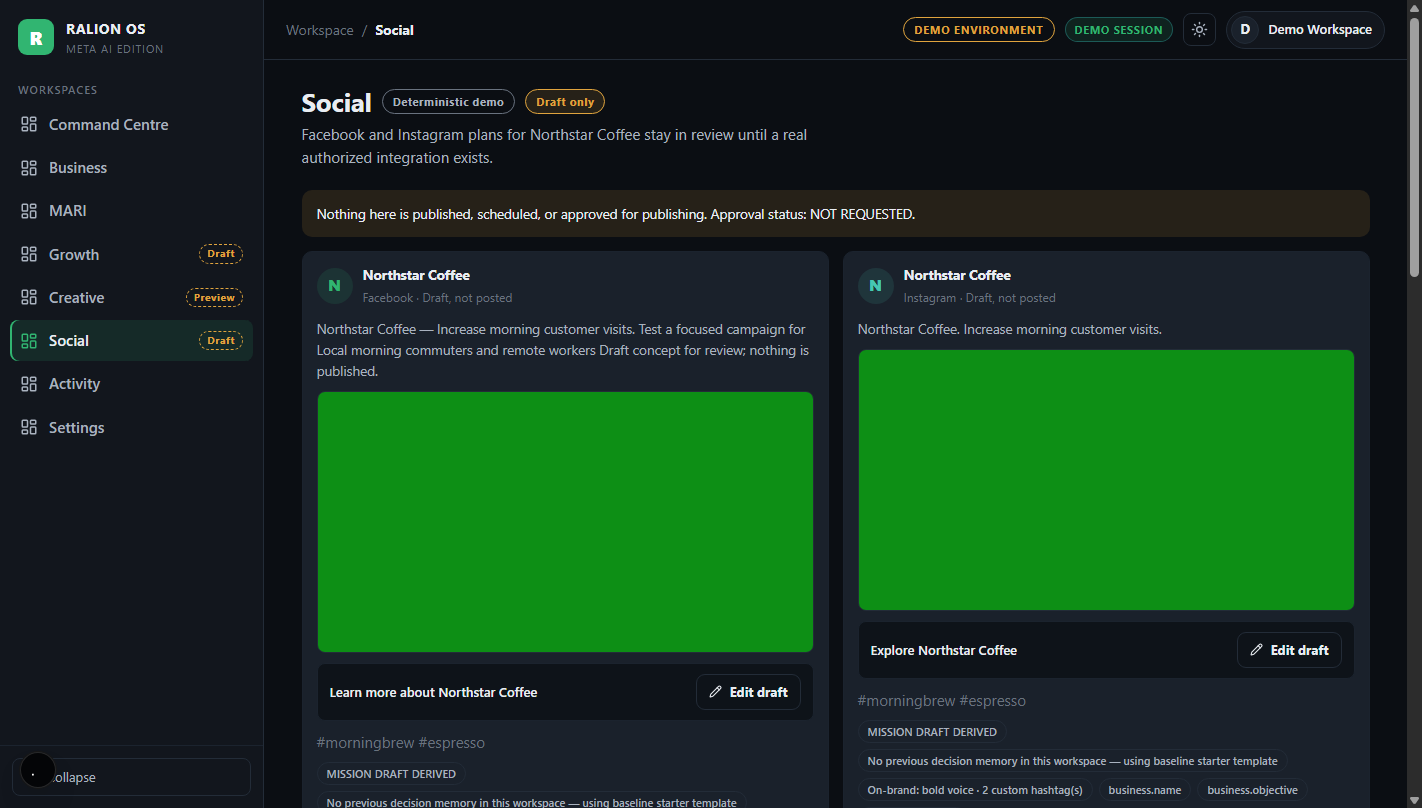
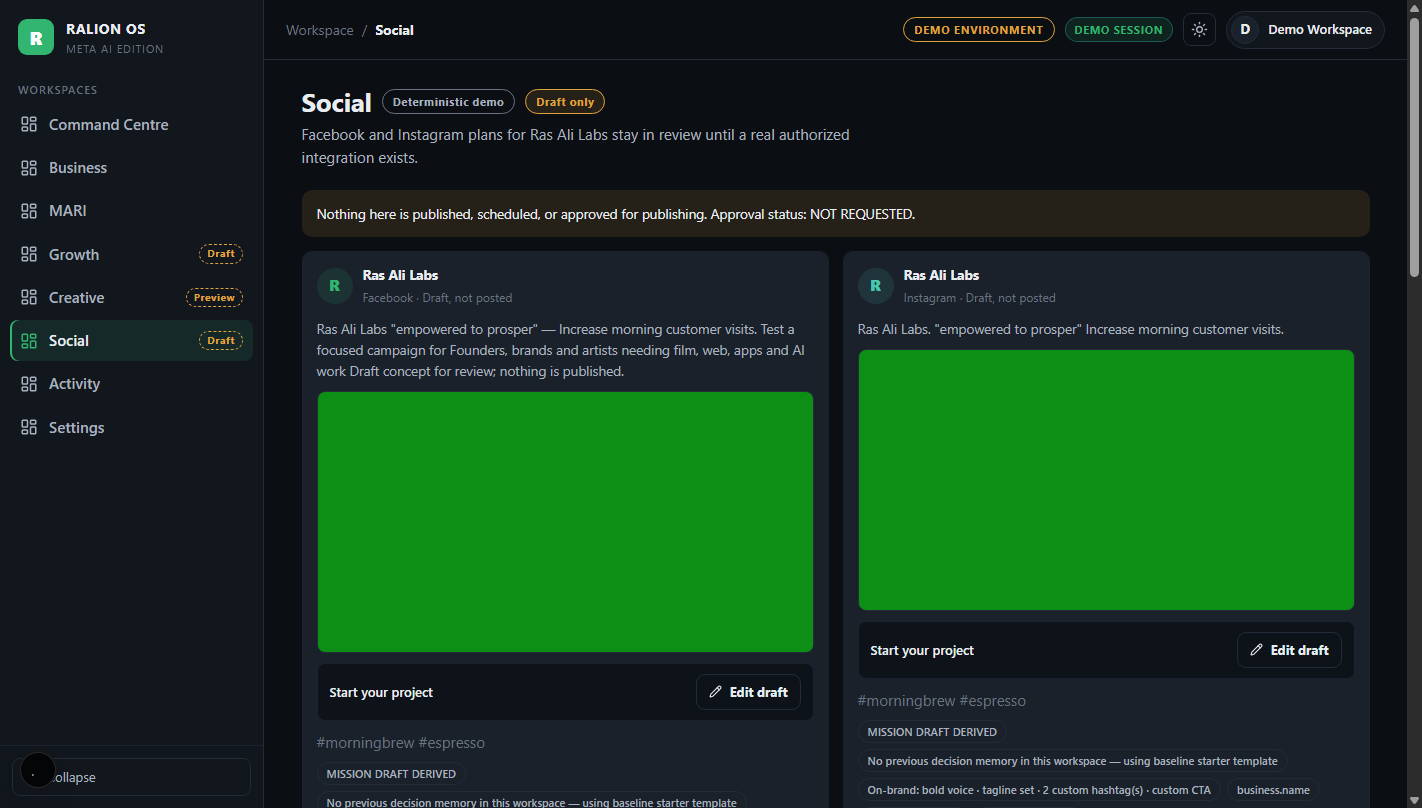
feat(business): default profile and brand kit to Ras Ali Labs
Starter business and brand kit now prefill Ras Ali Labs with live-site retrieval. Tests 230/230; build clean; browser acceptance 12/12.

diff --git a/apps/meta-os/app/components/shell.jsx b/apps/meta-os/app/components/shell.jsx
@@ -50,13 +50,13 @@ const VIEWS={
 };
 
 const STARTER_BUSINESS={
-  name:'Northstar Coffee',
-  industry:'Hospitality / coffee',
-  website:'https://example.org',
-  audience:'Local morning commuters and remote workers',
-  objective:'Increase morning customer visits and establish an afternoon remote-work offering',
-  facts:'Speciality roaster with two high-street locations. Strong morning trade; under-used afternoon capacity. Looking to test a focused promotion without heavy discounting.',
-  brand:{tagline:'',tone:'friendly',hashtags:'',primaryColor:'#1F2937',accentColor:'#0EA5A6',ctaStyle:''}
+  name:'Ras Ali Labs',
+  industry:'Creative technology studio',
+  website:'https://rasalilabs.com',
+  audience:'Founders, brands and artists needing film, web, apps and AI work',
+  objective:'Increase qualified project enquiries and establish a retainer offering for ongoing AI and creative work',
+  facts:'Multidisciplinary studio working across technology, film, web, apps, music and AI. Strong project delivery; looking to test a focused promotion that brings a steady flow of enquiries without discounting.',
+  brand:{tagline:'empowered to prosper',tone:'professional',hashtags:'#rasalilabs #creativetech #ai',primaryColor:'#1F2937',accentColor:'#0EA5A6',ctaStyle:'Start your project'}
 };
 
 export default function Shell(){
